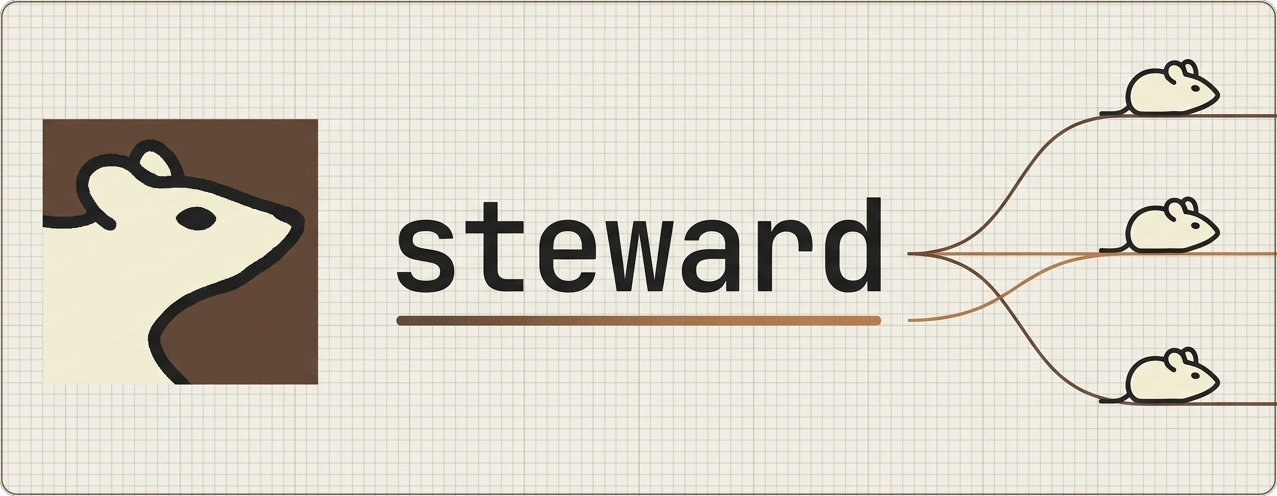
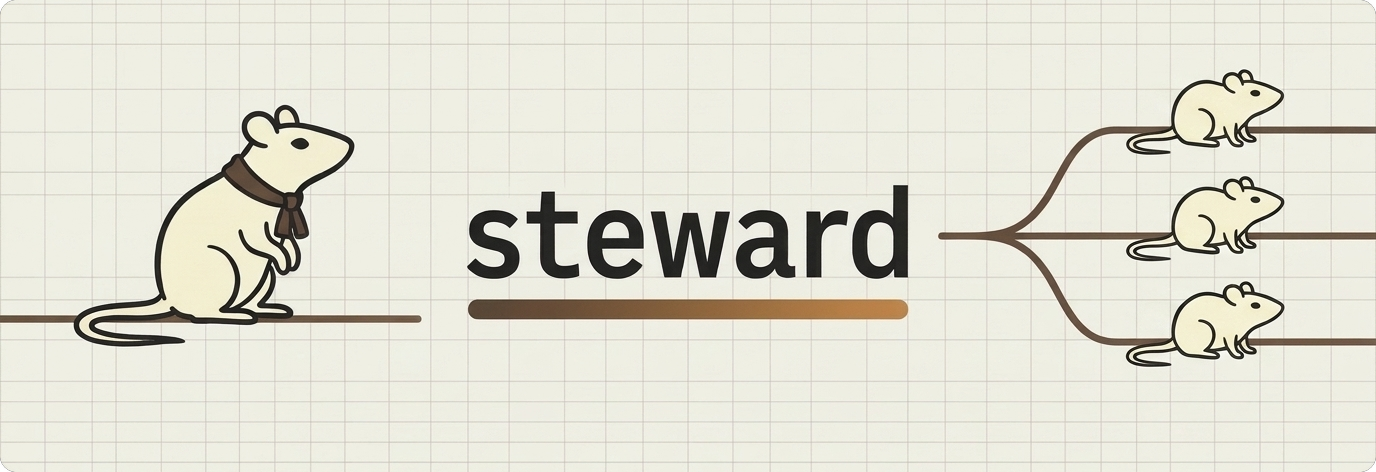
Polish borderless rat header art and remove editor-specific setup from README

diff --git a/README.md b/README.md
@@ -7,8 +7,8 @@
 </p>
 
 <p align="center">
-  <a href="#setup-opencode-2x">Setup</a> ·
-  <a href="#usage">Usage</a> ·
+  <a href="#getting-started">Getting Started</a> ·
+  <a href="#how-it-works">How It Works</a> ·
   <a href="skills/steward/SKILL.md">Skill</a> ·
   <a href="ARCHITECTURE.md">Architecture</a> ·
   <a href="evals/README.md">Evals</a>
@@ -18,49 +18,29 @@
 - **Orchestrator** (mid-tier subagent) — breaks tasks down, assigns them to workers, and checks their results.
 - **Workers** (small, cheap subagents) — each handles one subtask at a time.
 
-You only ever talk to the steward. The tiers coordinate through plain files in a `.steward/` directory inside your project, managed by a small Python script (`space.py`).
+You only ever talk to the steward. The tiers coordinate through plain files in a `.steward/` folder inside your project, managed by a small Python script (`space.py`).
 
-## Setup (OpenCode 2.x)
+## Getting Started
+
+Give your coding agent this repository (or [`skills/steward/SKILL.md`](skills/steward/SKILL.md)) and ask it to install Steward — it has everything it needs to wire up the skill, subagents, and nesting depth for your setup. Just let it know which mid-tier and cheap models you'd like to use for the orchestrator and workers.
 
 Requires Python 3.10+ (on Windows, run under WSL).
 
-Copy the skill and the two subagent definitions into your project:
-
-```sh
-mkdir -p .opencode/skills/steward .opencode/agents
-cp -r skills/steward/. .opencode/skills/steward/
-cp skills/steward/adapters/opencode/agents/*.md .opencode/agents/
-```
-
-For a global install instead, copy them to `~/.config/opencode/skills/steward/` and `~/.config/opencode/agents/`.
-
-Next, open `.opencode/agents/steward-orchestrator.md` and `.opencode/agents/steward-worker.md`, uncomment `model:`, and pick the mid-tier and cheap models you want to use. If you skip this, both subagents inherit your main model.
-
-Finally, allow two levels of nested subagents in `opencode.json` (or `opencode.jsonc`) so the orchestrator can launch workers:
-
-```jsonc
-{
-  "experimental": {
-    "subagent_depth": 2
-  }
-}
-```
-
-## Usage
+## How It Works
 
 Start a session on your main model, describe what you want done, and ask it to use the `steward` skill.
 
-The steward will create `.steward/`, kick off `steward-orchestrator` in the background, and hand control back to you. Whenever you send a follow-up — a change of plans, a new task, or a status question — the steward routes it without interrupting the orchestrator directly. When the orchestrator needs a decision or finishes the goal, the steward wakes up and reports back.
+The steward creates `.steward/`, starts the orchestrator in the background, and hands control back to you. Whenever you send a follow-up — a change of plans, a new task, or a status question — the steward routes it without interrupting the orchestrator directly. When the orchestrator needs a decision or finishes the goal, the steward wakes up and reports back.
 
 `.steward/` includes its own `.gitignore`, so temporary run state stays out of your repository.
 
-## Development & More Info
+## More Info
 
 - **Skill prompts:** [`skills/steward/SKILL.md`](skills/steward/SKILL.md) and [`skills/steward/orchestrator-prompt.md`](skills/steward/orchestrator-prompt.md)
 - **Design notes:** [`ARCHITECTURE.md`](ARCHITECTURE.md)
 - **Evals:** [`evals/README.md`](evals/README.md)
 
-Run the test suite locally:
+Run the tests locally:
 
 ```sh
 python3 -m unittest discover -s skills/steward/tests
